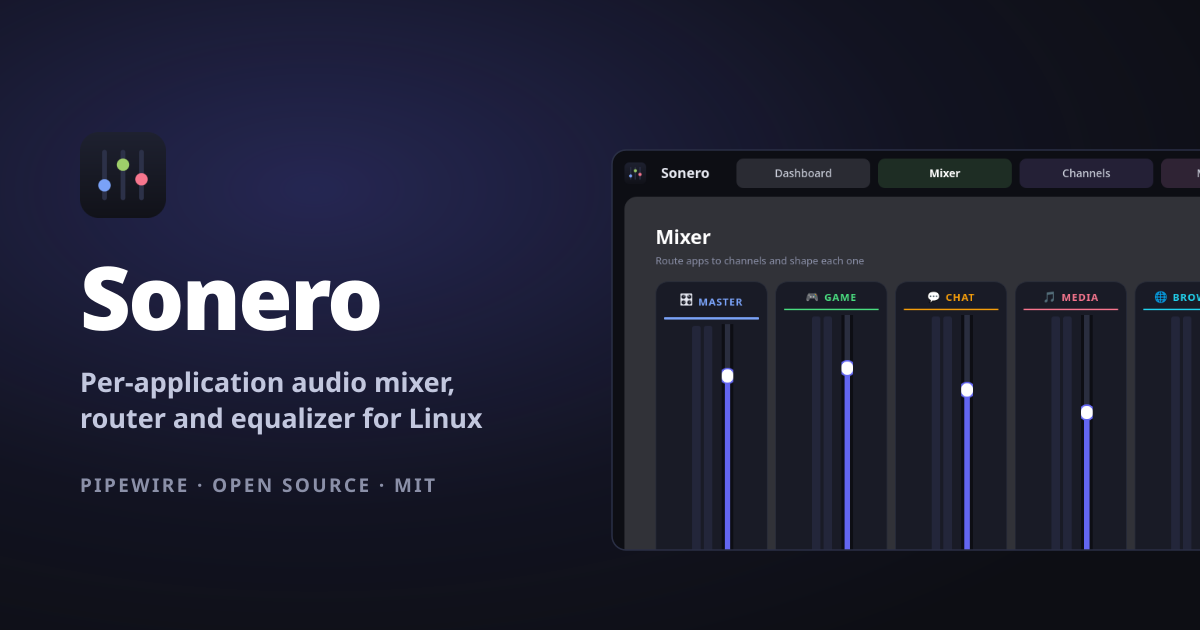
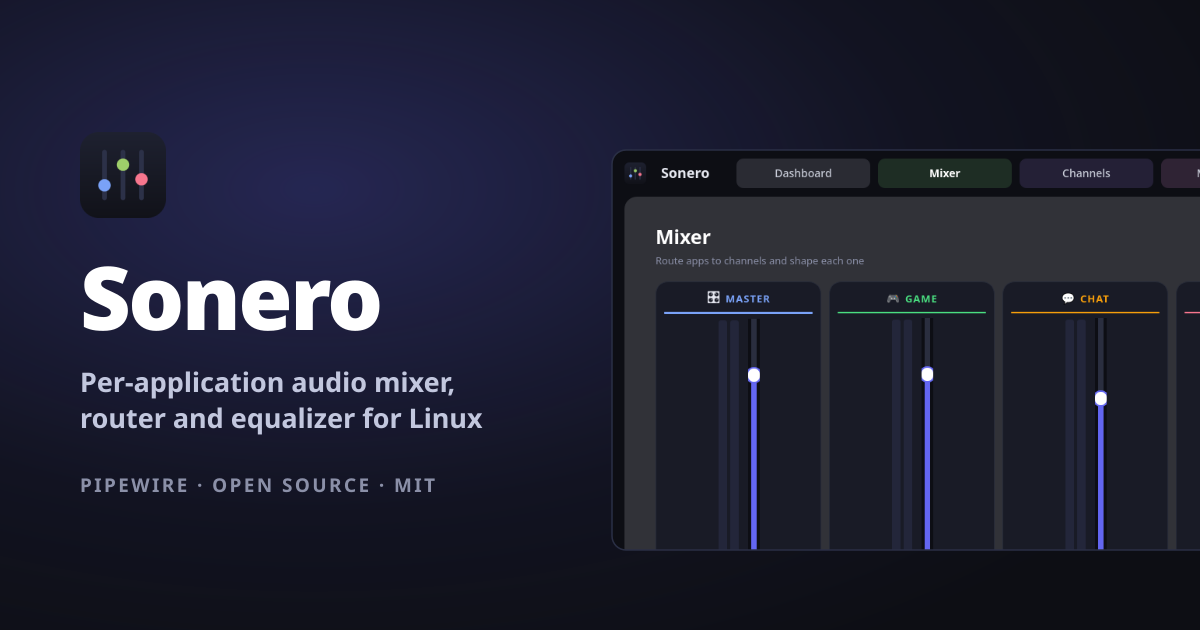
ui fix

Changed region(s): [[0.555, 0.4524, 1.0, 0.8746]]

diff --git a/docs/index.html b/docs/index.html
@@ -47,7 +47,8 @@
   "author": { "@type": "Person", "name": "Luci", "url": "https://github.com/Tatsu21" },
   "screenshot": [
     "https://tatsu21.github.io/sonero/images/mixer.png",
-    "https://tatsu21.github.io/sonero/images/channels.png"
+    "https://tatsu21.github.io/sonero/images/channels.png",
+    "https://tatsu21.github.io/sonero/images/microphone.png"
   ],
   "featureList": [
     "Six output channels with volume, mute, solo, balance and live meters",
@@ -247,6 +248,7 @@ footer .fl{margin-top:26px; display:flex; gap:20px; flex-wrap:wrap; align-items:
     <div class="links">
       <a class="hide-sm" href="#features">Features</a>
       <a class="hide-sm" href="#equalizer">Equalizer</a>
+      <a class="hide-sm" href="#microphone">Microphone</a>
       <a href="#install">Install</a>
       <a class="btn sm" href="https://github.com/Tatsu21/sonero">
         <svg viewBox="0 0 24 24" fill="currentColor" aria-hidden="true"><path d="M12 .5C5.7.5.5 5.7.5 12a11.5 11.5 0 0 0 7.9 10.9c.6.1.8-.2.8-.6v-2c-3.2.7-3.9-1.5-3.9-1.5-.5-1.4-1.3-1.7-1.3-1.7-1-.7.1-.7.1-.7 1.1.1 1.7 1.2 1.7 1.2 1 1.7 2.7 1.2 3.4.9.1-.7.4-1.2.7-1.5-2.6-.3-5.3-1.3-5.3-5.7 0-1.3.5-2.3 1.2-3.1-.1-.3-.5-1.5.1-3.1 0 0 1-.3 3.2 1.2a11 11 0 0 1 5.8 0c2.2-1.5 3.2-1.2 3.2-1.2.6 1.6.2 2.8.1 3.1.8.8 1.2 1.8 1.2 3.1 0 4.4-2.7 5.4-5.3 5.7.4.4.8 1.1.8 2.2v3.3c0 .4.2.7.8.6A11.5 11.5 0 0 0 23.5 12C23.5 5.7 18.3.5 12 .5z"/></svg>
@@ -364,6 +366,29 @@ footer .fl{margin-top:26px; display:flex; gap:20px; flex-wrap:wrap; align-items:
       <figure>
         <img class="frame" src="images/channels.png" width="1440" height="900"
              alt="The per-channel equalizer: a draggable response curve above per-band sliders">
+      </figure>
+    </div>
+  </div>
+</section>
+
+<section id="microphone">
+  <div class="wrap">
+    <div class="split">
+      <div>
+        <p class="eyebrow">Microphone</p>
+        <h2>A voice chain, not just a level</h2>
+        <p class="lead" style="margin-bottom:20px">The microphone Sonero hands to your
+          applications runs a full broadcast chain: a high-pass, learned noise suppression,
+          a gate that fades between sentences instead of chopping them, a de-esser, a
+          ten-band voice equalizer, a compressor and a brick-wall limiter.</p>
+        <p style="color:var(--dim); margin:0; font-size:15px">The noise model is RNNoise,
+          and it runs ahead of everything else so the gate and the compressor measure
+          speech against silence rather than against the room. Presets for podcasting,
+          streaming and meetings; Raw switches every stage off.</p>
+      </div>
+      <figure>
+        <img class="frame" src="images/microphone.png" width="1440" height="1165"
+             alt="The Sonero microphone page: input gain and level, the voice equalizer curve, and noise suppression">
       </figure>
     </div>
   </div>

diff --git a/ui/MicrophonePage.cpp b/ui/MicrophonePage.cpp
@@ -161,11 +161,16 @@ MicrophonePage::MicrophonePage(audio::IChannelController* controller,
                               static_cast<int>(preset));
     }
     chainPreset_->setCurrentIndex(1);  // Podcast, which is what the chain starts on
-    presetRow->addWidget(chainPreset_, 1);
+    // Sized to its contents rather than stretched: a four-item list spread across
+    // the whole window reads as a text field, and the room belongs to the
+    // sentence explaining it.
+    chainPreset_->setMinimumWidth(180);
+    presetRow->addWidget(chainPreset_);
     auto* presetHint = new QLabel(
         QStringLiteral("Raw = every stage off, the microphone as the device delivers it."));
     presetHint->setObjectName(QStringLiteral("Hint"));
-    presetRow->addWidget(presetHint);
+    presetHint->setWordWrap(true);
+    presetRow->addWidget(presetHint, 1);
     root->addLayout(presetRow);
 
     // --- Input (live) ---
@@ -198,13 +203,7 @@ MicrophonePage::MicrophonePage(audio::IChannelController* controller,
     outputGain_ = sliderRow(input, QStringLiteral("Output level"), -12, 12,
                             static_cast<int>(mic_.outputGainDb), QStringLiteral(" dB"), true);
 
-    auto* gainHint = new QLabel(
-        QStringLiteral("Input gain sets how hard the processing is driven; the compressor "
-                       "evens out whatever you feed it, so this changes the character more "
-                       "than the volume. Output level is the loudness applications hear."));
-    gainHint->setObjectName(QStringLiteral("Hint"));
-    gainHint->setWordWrap(true);
-    input->addWidget(gainHint);
+
     gainValue_ = nullptr;  // handled inside sliderRow
 
     auto* levelRow = new QHBoxLayout;
@@ -222,6 +221,18 @@ MicrophonePage::MicrophonePage(audio::IChannelController* controller,
     muteRow->addWidget(mute_);
     muteRow->addStretch(1);
     input->addLayout(muteRow);
+
+    // Below the controls it describes, not between two of them: a paragraph in
+    // the middle of a column of key/value rows breaks the rhythm that makes them
+    // scannable.
+    auto* gainHint = new QLabel(
+        QStringLiteral("Input gain sets how hard the processing is driven; the compressor "
+                       "evens out whatever you feed it, so this changes the character more "
+                       "than the volume. Output level is the loudness applications hear."));
+    gainHint->setObjectName(QStringLiteral("Hint"));
+    gainHint->setWordWrap(true);
+    input->addSpacing(4);
+    input->addWidget(gainHint);
 
     buildEqualizerCard(root);
 
@@ -361,7 +372,9 @@ void MicrophonePage::buildEqualizerCard(QVBoxLayout* root) {
                                            static_cast<qsizetype>(dsp::presetName(preset).size())),
                          static_cast<int>(preset));
     }
-    topRow->addWidget(preset_, 1);
+    preset_->setMinimumWidth(150);
+    topRow->addWidget(preset_);
+    topRow->addStretch(1);
 
     auto* reset = new QPushButton(QStringLiteral("Flat"));
     reset->setCursor(Qt::PointingHandCursor);
@@ -459,10 +472,19 @@ void MicrophonePage::buildNoiseCard(QVBoxLayout* root) {
     noiseMeter_->setObjectName(QStringLiteral("MicLevel"));
     noiseMeter_->setRange(0, 100);
     noiseMeter_->setValue(0);
-    noiseMeter_->setTextVisible(true);
-    noiseMeter_->setFormat(QStringLiteral("%v%"));
+    // The number goes in a label beside the bar, not inside it: the styled bar
+    // draws its text hard against the left edge, while every other row on this
+    // page puts its value in a right-aligned label. One of them had to give.
+    noiseMeter_->setTextVisible(false);
     noiseMeter_->setEnabled(available);
     meterRow->addWidget(noiseMeter_, 1);
+
+    noiseValue_ = new QLabel(QStringLiteral("0%"));
+    noiseValue_->setObjectName(QStringLiteral("VolumeValue"));
+    noiseValue_->setMinimumWidth(52);
+    noiseValue_->setAlignment(Qt::AlignRight | Qt::AlignVCenter);
+    noiseValue_->setEnabled(available);
+    meterRow->addWidget(noiseValue_);
     body->addLayout(meterRow);
 }
 
@@ -529,7 +551,11 @@ void MicrophonePage::refresh() {
         // model is willing to take out. Beyond that the scale stops meaning
         // anything to a person watching a bar.
         const float removed = std::clamp(-levels.noiseReductionDb / 24.0f, 0.0f, 1.0f);
-        noiseMeter_->setValue(static_cast<int>(removed * 100.0f));
+        const int percent = static_cast<int>(removed * 100.0f);
+        noiseMeter_->setValue(percent);
+        if (noiseValue_ != nullptr) {
+            noiseValue_->setText(QStringLiteral("%1%").arg(percent));
+        }
     }
 }
 

diff --git a/ui/Theme.cpp b/ui/Theme.cpp
@@ -4,7 +4,10 @@
 #include <QColor>
 #include <QFont>
 #include <QPalette>
+#include <QRegularExpression>
 #include <QStyleFactory>
+
+#include "app/SystemSetup.h"
 
 namespace sonar::ui {
 
@@ -155,11 +158,16 @@ QComboBox {
 }
 QComboBox:hover { border-color: #6366f1; }
 QComboBox::drop-down { border: none; width: 24px; }
+/* An image, because Qt leaves nothing else. The usual CSS triangle — zero size
+   plus transparent side borders — is a web trick Qt does not implement: it draws
+   the sub-control's box, so all that appeared was the top border, a small solid
+   dash where the arrow should be. Dropping the rule does not help either: once a
+   stylesheet touches a combo box, the stylesheet draws it, and with no image
+   there is simply no arrow. The paths are filled in by applyTheme(). */
 QComboBox::down-arrow {
-    image: none; width: 0; height: 0;
-    border-left: 4px solid transparent; border-right: 4px solid transparent;
-    border-top: 5px solid #8b90a8; margin-right: 10px;
+    image: url("@ARROW@"); width: 12px; height: 12px; margin-right: 8px;
 }
+QComboBox::down-arrow:disabled { image: url("@ARROW_DISABLED@"); }
 QComboBox QAbstractItemView {
     background: #191b26; border: 1px solid #2a2e3f; border-radius: 10px;
     selection-background-color: #262a3a; color: #e7e9f2; padding: 6px;
@@ -189,7 +197,6 @@ QSlider::add-page:vertical:disabled { background: #23262f; }
 QSlider::handle:horizontal:disabled,
 QSlider::handle:vertical:disabled { background: #3a3e4e; border-color: #23262f; }
 QComboBox:disabled { background: #171922; color: #4a4e63; border-color: #23262f; }
-QComboBox::down-arrow:disabled { border-top: 5px solid #4a4e63; }
 QCheckBox:disabled { color: #4a4e63; }
 QCheckBox::indicator:disabled { background: #171922; border-color: #23262f; }
 #MicLevel::chunk:disabled { background: #2f333f; }
@@ -233,7 +240,23 @@ void applyTheme(QApplication& app) {
     p.setColor(QPalette::Disabled, QPalette::WindowText, QColor(0x56, 0x5b, 0x74));
     app.setPalette(p);
 
-    app.setStyleSheet(QString::fromUtf8(kStyleSheet));
+    // The combo box arrow is a file, and where that file lives depends on how
+    // Sonero was installed — an AppImage mount, a system prefix, or the source
+    // tree. resourcePath() knows all three. If it is missing, the placeholders
+    // are dropped rather than left in the sheet: a url() pointing at "@ARROW@"
+    // makes Qt log a warning for every combo box on every repaint.
+    QString sheet = QString::fromUtf8(kStyleSheet);
+    const QString arrow = setup::resourcePath(QStringLiteral("icons/combo-arrow.png"));
+    const QString arrowOff =
+        setup::resourcePath(QStringLiteral("icons/combo-arrow-disabled.png"));
+    if (arrow.isEmpty() || arrowOff.isEmpty()) {
+        sheet.remove(QRegularExpression(
+            QStringLiteral("QComboBox::down-arrow[^}]*\\}")));
+    } else {
+        sheet.replace(QStringLiteral("@ARROW@"), arrow);
+        sheet.replace(QStringLiteral("@ARROW_DISABLED@"), arrowOff);
+    }
+    app.setStyleSheet(sheet);
 }
 
 }  // namespace sonar::ui

diff --git a/ui/DevicesPage.cpp b/ui/DevicesPage.cpp
@@ -24,6 +24,7 @@
 #include <QTimer>
 #include <QVBoxLayout>
 
+#include "app/SystemSetup.h"
 #include "audio/IAudioDevices.h"
 #include "audio/IDeviceFormats.h"
 #include "config/SettingsStore.h"
@@ -268,12 +269,33 @@ void DevicesPage::buildSteelSeriesControls(QVBoxLayout* parent) {
     body->addWidget(statusLabel_);
 
     if (!probe.accessible) {
-        auto* hint = new QLabel(QStringLiteral(
-            "No permission to talk to the base station. Install the udev rule:\n"
-            "  sudo cp packaging/udev/70-sonero-steelseries.rules /etc/udev/rules.d/\n"
-            "  sudo udevadm control --reload-rules && sudo udevadm trigger --subsystem-match=hidraw"));
+        // The commands come from the same place the Settings page's one-click fix
+        // runs, so the path in them is the rule's real location — under the
+        // AppImage mount, in the system prefix, or in the source tree. It used to
+        // be spelled out relative to the repository, which is a command that
+        // works for whoever wrote it and for nobody who installed Sonero.
+        QString text =
+            QStringLiteral("No permission to talk to the base station. "
+                           "Settings → System integration can install the udev rule "
+                           "for you, or run it yourself:");
+        const QString script = setup::privilegedFixScript(setup::CheckId::UdevRule);
+        if (script.isEmpty()) {
+            text += QStringLiteral("\n  (the rule file is missing from this build)");
+        } else {
+            for (const QString& line : script.split(QLatin1Char('\n'))) {
+                // Drop the shell preamble: it belongs to the script that pkexec
+                // runs, not to a line someone is meant to paste.
+                if (line.isEmpty() || line.startsWith(QLatin1String("#!")) ||
+                    line == QLatin1String("set -e")) {
+                    continue;
+                }
+                text += QStringLiteral("\n  sudo ") + line;
+            }
+        }
+        auto* hint = new QLabel(text);
         hint->setObjectName(QStringLiteral("Hint"));
         hint->setTextInteractionFlags(Qt::TextSelectableByMouse);
+        hint->setWordWrap(true);
         body->addWidget(hint);
     }
     body->addSpacing(6);

diff --git a/ui/widgets/ChannelStrip.cpp b/ui/widgets/ChannelStrip.cpp
@@ -35,7 +35,12 @@ ChannelStrip::ChannelStrip(ChannelId id, const QString& name, QWidget* parent)
     setObjectName(QStringLiteral("ChannelStrip"));
     setAttribute(Qt::WA_StyledBackground, true);  // let the QSS card style paint
     setAcceptDrops(true);                         // app chips can be dropped here
-    setFixedWidth(kStripWidth);
+    // A floor, not a fixed size. Six strips at a fixed width left a third of a
+    // 1440-pixel window empty to their right, which reads as a layout that gave
+    // up rather than one that was designed. The ceiling keeps a very wide window
+    // from stretching six channels into six billboards.
+    setMinimumWidth(kStripWidth);
+    setMaximumWidth(kStripWidth * 3 / 2);
 
     const QString accent = accentFor(id);
 
@@ -46,6 +51,15 @@ ChannelStrip::ChannelStrip(ChannelId id, const QString& name, QWidget* parent)
             "silences the whole mix."));
     }
     glyph->setStyleSheet(QStringLiteral("font-size:17px;"));
+    // A fixed height, because the glyphs are not all the same kind of character:
+    // some channels use a colour emoji and some a plain text symbol, and the two
+    // have different ascents. Left to themselves the labels size to their own
+    // glyph, the header row grows for some strips and not others, and everything
+    // below — fader, percentage, Mute and Solo — sits a few pixels lower on
+    // Master and Aux than on the rest.
+    constexpr int kHeaderHeight = 22;
+    glyph->setFixedHeight(kHeaderHeight);
+    glyph->setAlignment(Qt::AlignCenter);
     // System doubles as the master fader, so it is labelled for what it does
     // rather than for the streams it happens to carry.
     const bool isMaster = id == ChannelId::System;
@@ -53,6 +67,8 @@ ChannelStrip::ChannelStrip(ChannelId id, const QString& name, QWidget* parent)
     title->setObjectName(QStringLiteral("ChannelName"));
     title->setStyleSheet(
         QStringLiteral("color:%1; font-weight:800; letter-spacing:1px;").arg(accent));
+    title->setFixedHeight(kHeaderHeight);
+    title->setAlignment(Qt::AlignCenter);
     auto* titleRow = new QHBoxLayout;
     titleRow->setSpacing(7);
     titleRow->addStretch(1);

diff --git a/ui/MixerPage.cpp b/ui/MixerPage.cpp
@@ -182,9 +182,11 @@ MixerPage::MixerPage(audio::IMixer& mixer, audio::IAppRouter* router,
 
         strips_.push_back(strip);
         stripByChannel_[static_cast<int>(id)] = strip;
-        stripRow->addWidget(strip);
+        stripRow->addWidget(strip, 1);  // share the row; the strip caps its own width
     }
-    stripRow->addStretch(1);
+    // No trailing stretch: the strips themselves take the space now, and a
+    // stretch here would hand it all back to the right-hand margin.
+
     root->addLayout(stripRow, 1);
 
     if (settings_ != nullptr) {

diff --git a/ui/MicrophonePage.h b/ui/MicrophonePage.h
@@ -80,6 +80,7 @@ private:
     QCheckBox* noiseEnable_ = nullptr;
     QLabel* noiseState_ = nullptr;
     QProgressBar* noiseMeter_ = nullptr;
+    QLabel* noiseValue_ = nullptr;
 };
 
 }  // namespace sonar::ui

diff --git a/README.md b/README.md
@@ -55,6 +55,10 @@ to two different devices at once.
 | 💾 | **Everything persists** — first launch gives you sane defaults; every change you make is remembered for the next session. |
 | 🖥 | **A real desktop app** — tray icon, desktop notifications, autostart at login and background operation so your channels stay alive when the window is closed. The tray menu shows the battery of every connected device and opens a compact volume window for the channels. |
 
+<div align="center">
+<img src="docs/images/microphone.png" alt="The microphone page: input levels, the voice equalizer and noise suppression" width="860">
+</div>
+
 <details>
 <summary><b>Not there yet</b></summary>
 
